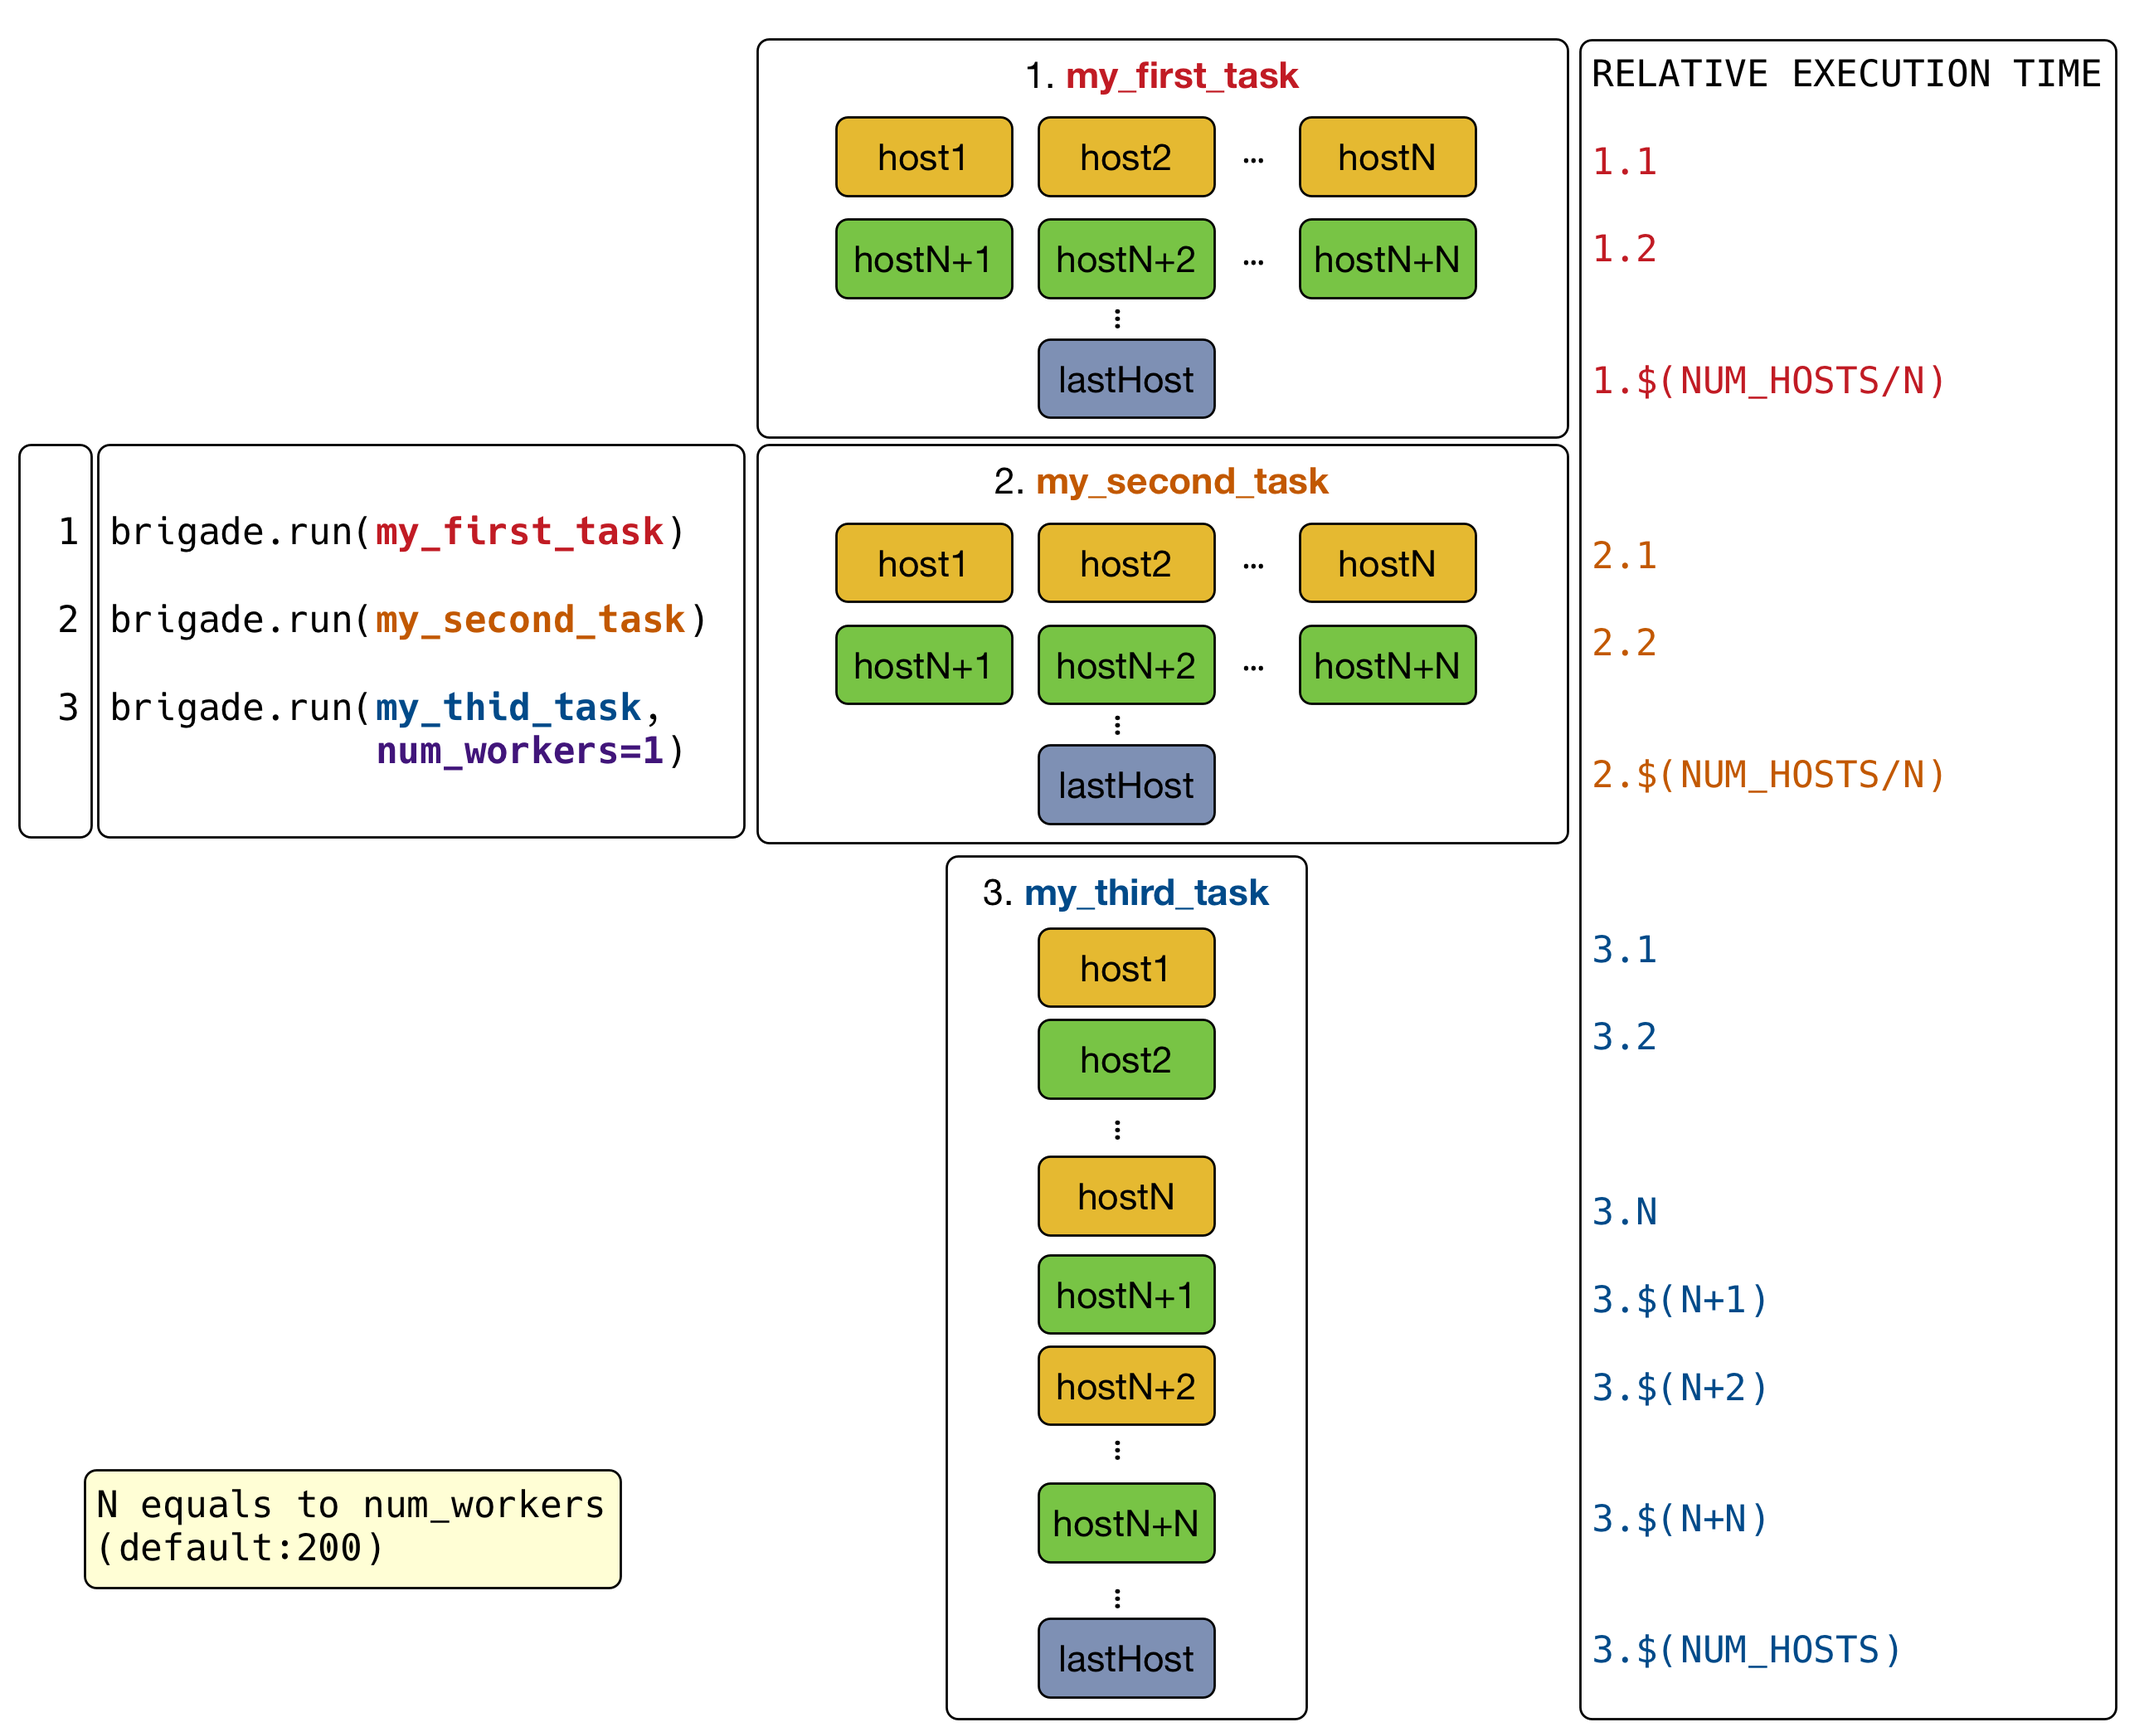
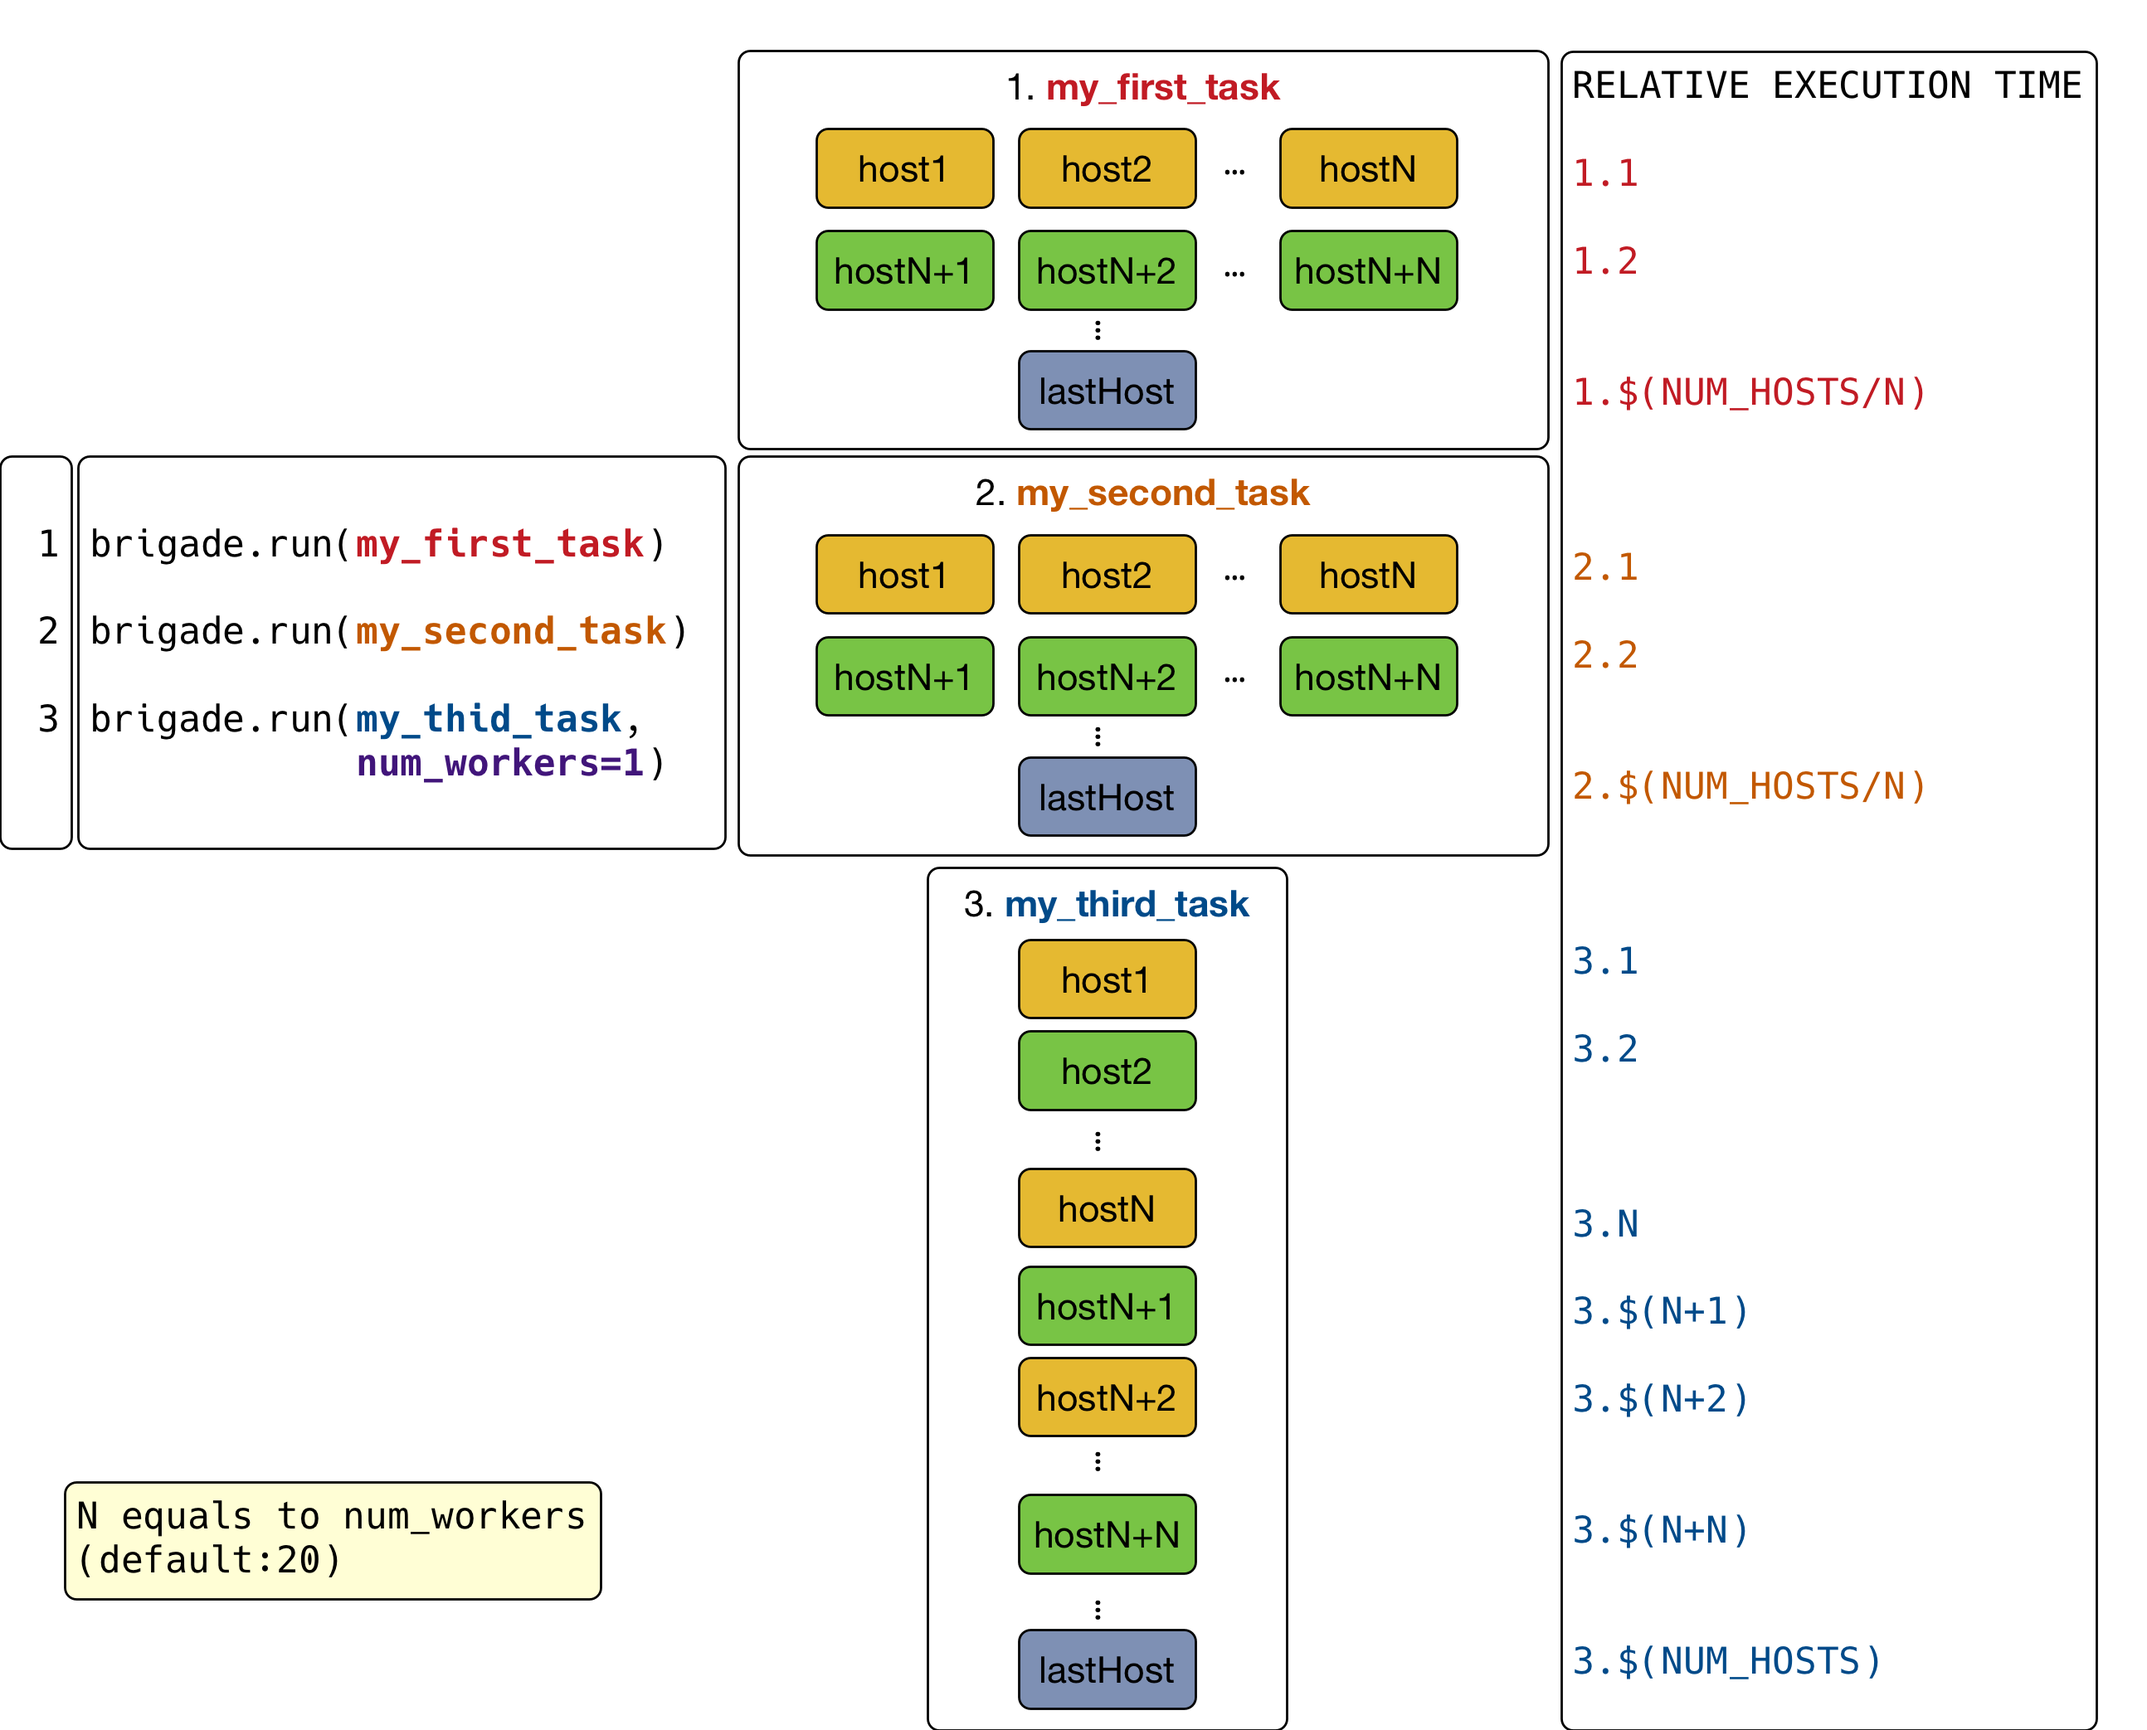
minor fixes to docs

diff --git a/docs/ref/internals/execution_model.rst b/docs/ref/internals/execution_model.rst
@@ -3,8 +3,8 @@ Execution Model
 
 One of the many advantages of using brigade is that it will be parallelize the execution of tasks for you. The way it works is as follows:
 
-1. You trigger the parallelization by running a task via :obj:`brigade.core.Brigade.run` with ``num_workers > 1`` (defaults to ``200``).
-2. If ``num_workers == 1`` we run the task over all hosts one after the other in a simple loop. This is useful for troubleshooting/debugging.
+1. You trigger the parallelization by running a task via :obj:`brigade.core.Brigade.run` with ``num_workers > 1`` (defaults to ``20``).
+2. If ``num_workers == 1`` we run the task over all hosts one after the other in a simple loop. This is useful for troubleshooting/debugging, for writing to disk/database or just for printing on screen.
 3. When parallelizing tasks brigade will use a different thread for each host.
 
 Below you can see a simple diagram illustrating how this works:
